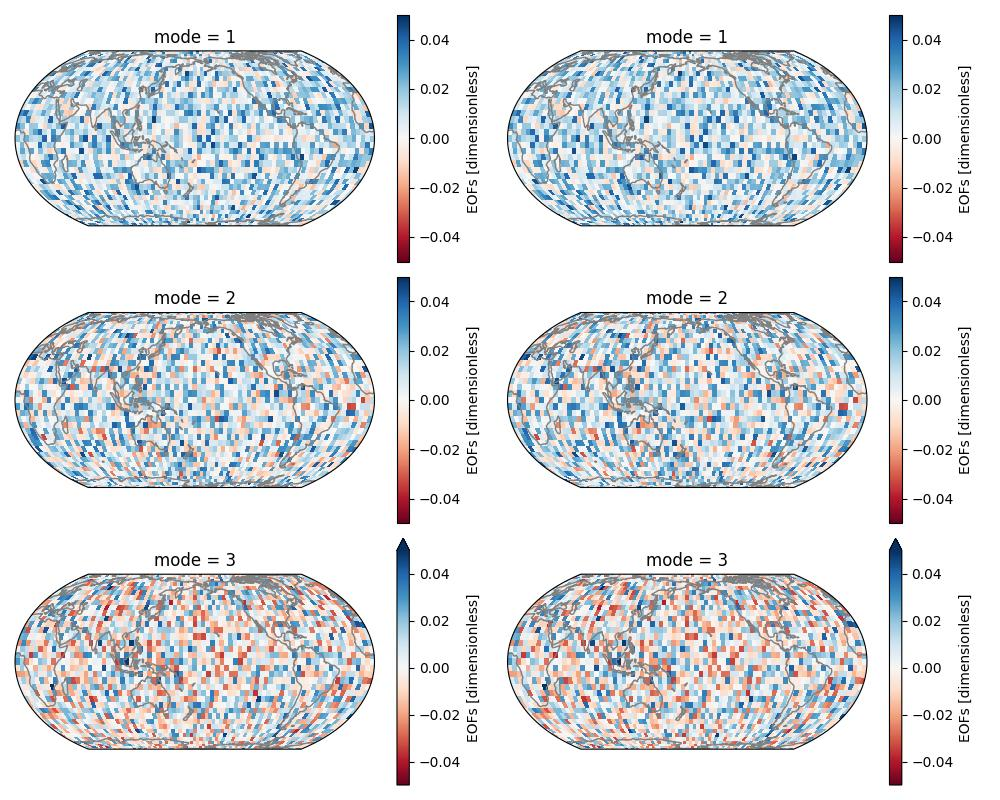
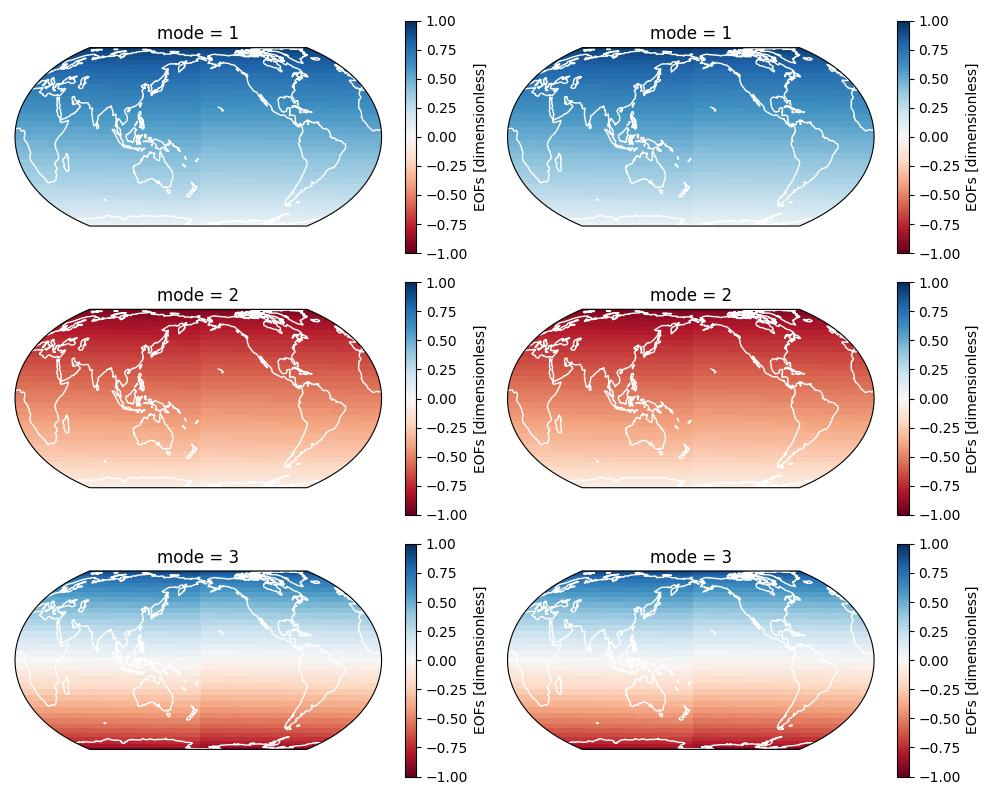
implemented xarray convertion

diff --git a/compute_pca_xeofs.py b/compute_pca_xeofs.py
@@ -2,13 +2,43 @@ import numpy as np
 from xeofs.models import EOF
 import varimax_xeofs as rot
 import xarray as xr
+
+
+
 # input: a data set (n x 36(=p)), (number of components computed))
 #
 # returns: PC loadings (nx36)
 def compute_pca(data, n_components=6, correlation_mode=False, custom_weights=None):
     
+    # Define the number of rows and columns
+    num_rows = 3120
 
+    # Generate the values for the first and fifth columns (increasing from 0 to 1)
+    col1_values = np.linspace(0, 1, num_rows)
+    col5_values = np.linspace(0, 1, num_rows)
+
+    # Generate the values for the second and sixth columns (decreasing from 0 to -1)
+    col2_values = np.linspace(0, -1, num_rows)
+    col6_values = np.linspace(0, -1, num_rows)
+
+    # Generate the values for the third and fourth columns (increasing from -1 to 1)
+    col3_values = np.linspace(-1, 1, num_rows)
+    col4_values = np.linspace(-1, 1, num_rows)
+
+    # Concatenate the column values horizontally to form the final array
+    TestEOF = np.concatenate(
+        (
+            col1_values[:, np.newaxis],
+            col2_values[:, np.newaxis],
+            col3_values[:, np.newaxis],
+            col4_values[:, np.newaxis],
+            col5_values[:, np.newaxis],
+            col6_values[:, np.newaxis],
+        ),
+        axis=1,
+    )
    
+    print(TestEOF)
     model = EOF(data, n_modes=n_components, norm=True)
     model.solve()
     
@@ -17,7 +47,8 @@ def compute_pca(data, n_components=6, correlation_mode=False, custom_weights=Non
     #pc_scores = pca.fit_transform(data)
     eofs = model.eofs()
 
-    eofs = eofs.reshape(39,80,6)
+
+    eofs = TestEOF.T.reshape(6,39,80)
 
     
 
@@ -36,7 +67,7 @@ def compute_pca(data, n_components=6, correlation_mode=False, custom_weights=Non
     # Create the new Xarray data array
     eofs_xar = xr.DataArray(
         eofs,
-        dims=('lat', 'lon', 'mode'),
+        dims=('mode', 'lat', 'lon'),
         coords={'lat': lat, 'lon': lon, 'mode': mode},
         attrs=attributes,
     )

diff --git a/eof_plot.py b/eof_plot.py
@@ -8,7 +8,7 @@ def plot(eofs, rot_eofs, title):
     proj = EqualEarth(central_longitude=180)
 
     kwargs = {
-        'cmap' : 'RdBu', 'vmin' : -.05, 'vmax': .05, 'transform': PlateCarree()
+        'cmap' : 'RdBu', 'vmin' : -1, 'vmax': 1, 'transform': PlateCarree()
     }
     fig = plt.figure(figsize=(10, 8))
     gs = GridSpec(3, 2)
@@ -19,9 +19,9 @@ def plot(eofs, rot_eofs, title):
     for i, (a0, a1) in enumerate(zip(ax0, ax1)):
         mode_range = i+1
         eofs.sel(mode=mode_range).plot(ax=a0, **kwargs)
-        a0.coastlines(color='.5')
+        a0.coastlines(color='1')
         rot_eofs.sel(mode=mode_range).plot(ax=a1, **kwargs)
-        a1.coastlines(color='.5')
+        a1.coastlines(color='1')
 
     plt.tight_layout()
     plt.savefig('Unweighted eof-smode'+str(title)+'modes: '+str(mode_range-2)+'-'+str(mode_range)+'.jpg')

diff --git a/arrayTEST.py b/arrayTEST.py
@@ -17,6 +17,6 @@ array = np.array([[1,2,3],
                  [43,44,45]])
 
 
-array = array.reshape(3,5,3)
+array = array.T.reshape(3,3,5)
 
-print(array)
+print(array[0,:,:])
